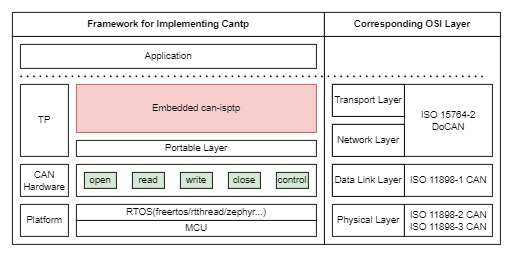
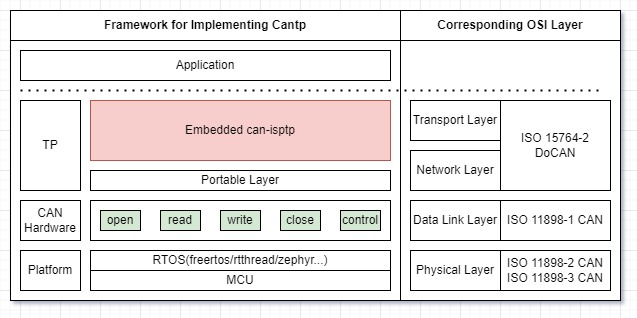
[DOC]update doc

Changed region(s): [[0.0, 0.031, 0.9981, 0.9612], [0.2807, 0.3721, 0.4678, 0.4341]]

diff --git a/README.md b/README.md
@@ -5,8 +5,9 @@ Embedded-CAN-ISOTP is an embedded implementation of the Transport protocol and n
 
 The framework for implementing CAN TP (Controller Area Network Transport Protocol) in the Embedded-CAN-ISOTP project is structured as follows:
 
-![](/docs/cantp_framework.jpg)
-
+<div style="text-align: center;">
+  <img src="./docs/cantp_framework.drawio.png" alt="Image Description" width="500">
+</div>
 - Application Layer: This layer is where the application interacts with the transport protocol. It is responsible for initiating and managing the communication sessions.
 
 - Transport Layer: The ISO-TP (ISO Transport Protocol) is implemented at this layer. It adheres to the ISO15765-2 standard and provides the necessary transport services for CAN and CAN FD networks.
